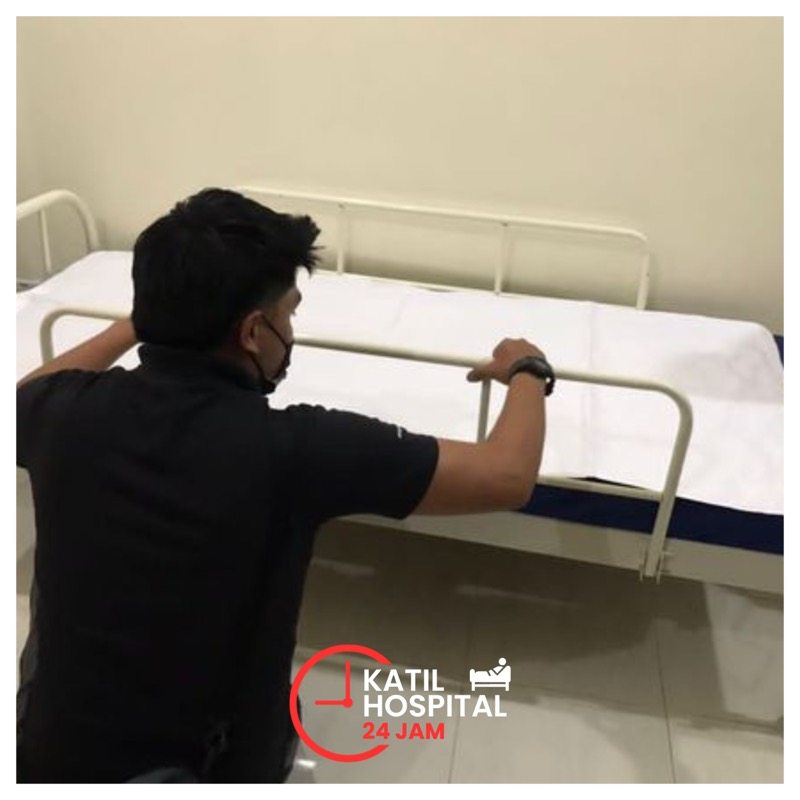
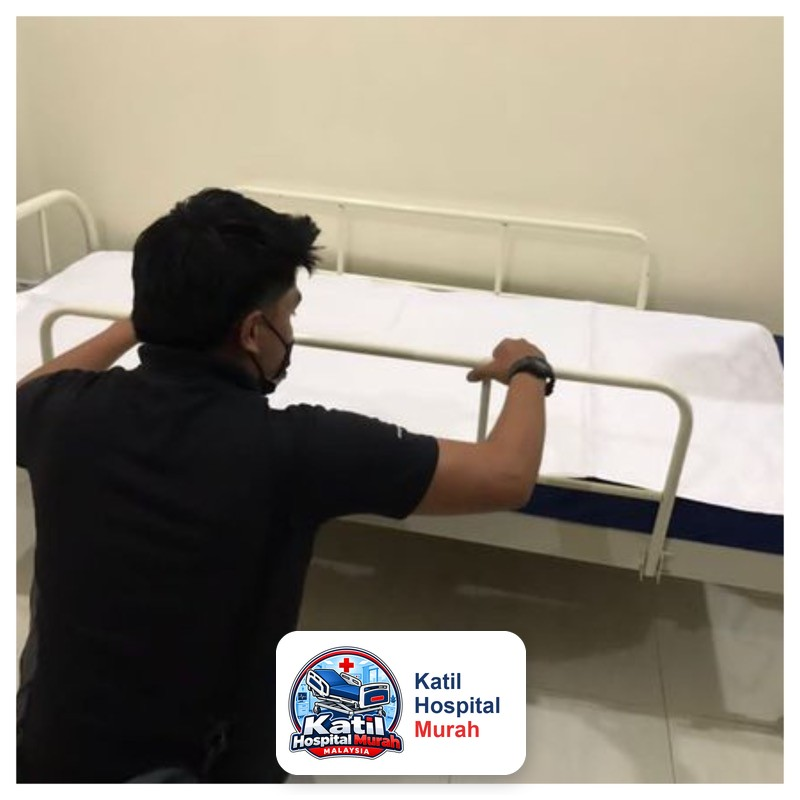
feat(katilhospital-24jam): WhatsApp-chat steps, flags, rebranded gallery, new final CTA photo
Review round 2 choices:

- Steps section (option 2): an example WhatsApp conversation in a phone
  frame beside the three steps, labelled "Contoh perbualan". The bed
  and price in the reply come from the live catalogue (Flexi II), and
  on a location page the customer's town is that page's town. Falls
  back to a price-free reply when no bed has a rental price.
- Language switcher shows round flags, copied from the canonical
  LanguageSwitcher (useId keeps clipPath ids unique across the header
  and drawer copies).
- Gallery photos: the old "Katil Hospital 24 Jam" watermark — this
  site's previous brand name — is covered by a white card with the new
  badge logo and name. Same spot on all 16 photos (photo 7 sits 29px
  left). JPG stays JPG; originals are in git history.
- Final CTA background: the client-generated dusk room (bed + wheelchair,
  open centre) replaces the stock hospital ward photo. PNG kept, resized
  to 1600px (1.3 MB). bgAlt updated in ms/en/zh.

Refs #207

Changed region(s): [[0.3438, 0.7812, 0.6562, 1.0]]

diff --git a/projects/katilhospital-24jam/app/globals.css b/projects/katilhospital-24jam/app/globals.css
@@ -1137,90 +1137,112 @@ h1, h2, h3, h4, h5, h6 {
   text-align: left;
 }
 
-/* ── Steps — connected sequence, closing CTA centred at every width ── */
+/* ── Steps — example WhatsApp chat beside the 3 steps ── */
+.kh-how {
+  display: grid;
+  gap: 28px;
+  max-width: 1080px;
+  margin: 0 auto;
+}
+@media (min-width: 900px) {
+  .kh-how { grid-template-columns: 360px minmax(0, 1fr); align-items: center; gap: 56px; }
+}
+.kh-chat { margin: 0; }
+.kh-chat-phone {
+  width: 100%;
+  max-width: 320px;
+  margin: 0 auto;
+  padding: 10px;
+  border-radius: 32px;
+  background: var(--ink);
+  box-shadow: 0 28px 60px rgba(14, 32, 64, 0.22), 0 8px 18px rgba(14, 32, 64, 0.1);
+}
+.kh-chat-screen { border-radius: 24px; overflow: hidden; background: #ECE5DD; }
+.kh-chat-bar {
+  display: flex;
+  align-items: center;
+  gap: 10px;
+  padding: 10px 12px;
+  background: #075E54;
+  color: #FFFFFF;
+}
+.kh-chat-bar img { width: 36px; height: 36px; border-radius: 50%; background: #FFFFFF; padding: 1px; }
+.kh-chat-bar b { display: block; font-size: 14px; line-height: 1.2; }
+.kh-chat-bar small { font-size: 11px; opacity: 0.8; }
+.kh-chat-msgs { display: grid; gap: 8px; padding: 14px 10px 18px; }
+.kh-chat-day {
+  justify-self: center;
+  padding: 3px 10px;
+  border-radius: 8px;
+  background: #E1F2FB;
+  color: #44606E;
+  font-size: 11px;
+}
+.kh-chat-b {
+  max-width: 84%;
+  padding: 8px 10px 6px;
+  border-radius: 10px;
+  font-size: 13px;
+  line-height: 1.4;
+  color: #111B21;
+  box-shadow: 0 1px 1px rgba(0, 0, 0, 0.08);
+}
+.kh-chat-b small { display: block; margin-top: 2px; text-align: right; font-size: 10px; color: #667781; }
+.kh-chat-in { justify-self: start; background: #FFFFFF; border-top-left-radius: 2px; }
+.kh-chat-out { justify-self: end; background: #DCF8C6; border-top-right-radius: 2px; }
+.kh-chat-cap { margin-top: 10px; text-align: center; font-size: 12px; color: var(--ink-muted); }
+
 .kh-steps {
   list-style: none;
-  max-width: 520px;
-  margin: 0 auto;
+  margin: 0;
   padding: 0;
   display: grid;
+  gap: 10px;
 }
 .kh-step {
-  position: relative;
   display: grid;
-  grid-template-columns: 44px minmax(0, 1fr);
-  /* The row is as tall as the longest step; without this a shorter step
-     spreads the spare height into its number row and its title drops. */
-  align-content: start;
+  grid-template-columns: 48px minmax(0, 1fr);
+  align-items: start;
   gap: 14px;
-  padding-bottom: 24px;
+  padding: 14px;
+  background: #FFFFFF;
+  border: 1px solid var(--line);
+  border-radius: 16px;
   text-align: left;
 }
-.kh-step:not(:last-child)::before {
-  content: "";
-  position: absolute;
-  left: 21px;
-  top: 50px;
-  bottom: 4px;
-  width: 2px;
-  background: repeating-linear-gradient(180deg, var(--accent) 0 6px, transparent 6px 11px);
-}
 .kh-step-num {
-  width: 44px;
-  height: 44px;
-  border-radius: 50%;
+  width: 48px;
+  height: 48px;
+  border-radius: 14px;
   background: var(--navy);
   color: #FFFFFF;
   display: grid;
   place-items: center;
   font-family: var(--font-display);
-  font-size: 18px;
+  font-size: 20px;
   font-weight: 800;
 }
+.kh-step--wa .kh-step-num { background: #25D366; }
 .kh-step-title {
-  margin: 10px 0 4px;
+  margin: 3px 0 3px;
   font-family: var(--font-display);
-  font-size: 17px;
+  font-size: 16.5px;
   font-weight: 700;
   line-height: 1.25;
   color: var(--ink);
 }
-.kh-step-body {
-  font-size: 14px;
-  line-height: 1.55;
-  color: var(--ink-muted);
-}
+.kh-step-body { font-size: 14px; line-height: 1.5; color: var(--ink-muted); }
 .kh-steps-close {
-  max-width: 560px;
-  margin: 8px auto 0;
-  padding: 20px;
-  background: #FFFFFF;
-  border: 1px solid var(--line);
-  border-radius: 18px;
+  margin-top: 18px;
   display: grid;
   justify-items: center;
-  gap: 14px;
+  gap: 12px;
   text-align: center;
 }
-.kh-steps-close p {
-  font-size: 15px;
-  line-height: 1.5;
-  color: var(--ink);
-}
+.kh-steps-close p { font-size: 15px; line-height: 1.5; color: var(--ink); max-width: 44ch; }
 @media (min-width: 900px) {
-  .kh-steps { max-width: 1080px; grid-template-columns: repeat(3, minmax(0, 1fr)); gap: 28px; }
-  .kh-step { grid-template-columns: minmax(0, 1fr); padding-bottom: 0; }
-  .kh-step:not(:last-child)::before {
-    left: 58px;
-    right: -18px;
-    top: 21px;
-    bottom: auto;
-    width: auto;
-    height: 2px;
-    background: repeating-linear-gradient(90deg, var(--accent) 0 6px, transparent 6px 11px);
-  }
-  .kh-step-title { margin: 16px 0 6px; font-size: 18px; }
-  .kh-steps-close { max-width: 720px; margin-top: 44px; padding: 24px 28px; }
+  .kh-step { padding: 18px; }
+  .kh-steps-close { justify-items: start; text-align: left; }
   .kh-steps-close p { font-size: 16px; }
 }
 
@@ -1455,7 +1477,7 @@ h1, h2, h3, h4, h5, h6 {
   color: #FFFFFF;
   background:
     linear-gradient(150deg, rgba(14, 32, 64, 0.95) 0%, rgba(28, 58, 106, 0.88) 55%, rgba(28, 58, 106, 0.74) 100%),
-    url('/brand/gallery/cta-bg.jpg') center / cover;
+    url('/brand/gallery/final-cta-home.png') center / cover;
 }
 .kh-final h3 {
   max-width: 680px;

diff --git a/projects/katilhospital-24jam/components/HomeSections.tsx b/projects/katilhospital-24jam/components/HomeSections.tsx
@@ -341,6 +341,13 @@ export default function HomeSections({ locale, products, location }: Props) {
 
   const [open, setOpen] = useState<number | null>(0);
 
+  // Example chat in the steps section: a real bed from the catalogue (Flexi II
+  // when present) and, on a location page, that page's town.
+  const chatBed =
+    renderProducts.find((p) => p.slug === 'katil-hospital-elektrik-3-fungsi') ??
+    renderProducts.find((p) => p.slug.startsWith('katil-hospital') && p.rental_price);
+  const chatCity = location?.city ?? 'Shah Alam';
+
   // Stagger index for grid children; capped so a long grid doesn't make the
   // last card wait visibly.
   const stagger = (i: number) => ({ '--i': Math.min(i, 6) }) as React.CSSProperties;
@@ -419,28 +426,67 @@ export default function HomeSections({ locale, products, location }: Props) {
         </section>
       )}
 
-      {/* SECTION 7 — How it works (3 steps, closing WhatsApp CTA) */}
+      {/* SECTION 7 — How it works: example WhatsApp chat beside the 3 steps,
+          closing with the WhatsApp CTA. The chat is illustrative and labelled
+          as an example; its product and price come from the live catalogue. */}
       <section id="how" className="kh-section kh-section--mist">
         <div className="kh-wrap">
           <SectionHead eyebrow={howT('eyebrow')} title={howT('h3')} sub={howT('intro')} />
-          <ol className="kh-steps">
-            {['s1', 's2', 's3'].map((s, i) => (
-              <li key={s} className="kh-step kh-reveal" style={stagger(i)}>
-                <span className="kh-step-num" aria-hidden="true">
-                  {i + 1}
-                </span>
-                <div>
-                  {/* Strip any leading "1." / "1、" prefix — the number circle
-                      is the single source of the step number. */}
-                  <h4 className="kh-step-title">{howT(`${s}.title`).replace(/^\s*\d+\s*[.、:)-]\s*/, '')}</h4>
-                  <p className="kh-step-body">{howT(`${s}.body`)}</p>
+          <div className="kh-how">
+            <figure className="kh-chat kh-reveal">
+              <div className="kh-chat-phone" aria-hidden="true">
+                <div className="kh-chat-screen">
+                  <div className="kh-chat-bar">
+                    {/* eslint-disable-next-line @next/next/no-img-element */}
+                    <img src="/brand/logo/logo-badge.png" alt="Katil Hospital Murah" width={36} height={36} />
+                    <div>
+                      <b>Katil Hospital Murah</b>
+                      <small>{howT('chat.status')}</small>
+                    </div>
+                  </div>
+                  <div className="kh-chat-msgs">
+                    <span className="kh-chat-day">{howT('chat.today')}</span>
+                    <p className="kh-chat-b kh-chat-out">
+                      {howT('chat.m1', { city: chatCity })}
+                      <small>9:12</small>
+                    </p>
+                    <p className="kh-chat-b kh-chat-in">
+                      {chatBed?.rental_price
+                        ? howT('chat.m2', { product: chatBed.name, price: chatBed.rental_price })
+                        : howT('chat.m2NoPrice')}
+                      <small>9:14</small>
+                    </p>
+                    <p className="kh-chat-b kh-chat-out">
+                      {howT('chat.m3')}
+                      <small>9:15</small>
+                    </p>
+                  </div>
                 </div>
-              </li>
-            ))}
-          </ol>
-          <div className="kh-steps-close kh-reveal">
-            <p>{howT('closing')}</p>
-            <WhatsAppButton href={waHref} label={howT('cta')} variant="pill" locationSlug={location?.slug} />
+              </div>
+              <figcaption className="kh-chat-cap">{howT('chat.caption')}</figcaption>
+            </figure>
+
+            <div className="kh-how-steps">
+              <ol className="kh-steps">
+                {['s1', 's2', 's3'].map((s, i) => (
+                  <li key={s} className={`kh-step kh-reveal${i === 0 ? ' kh-step--wa' : ''}`} style={stagger(i)}>
+                    <span className="kh-step-num" aria-hidden="true">
+                      {i + 1}
+                    </span>
+                    <div>
+                      {/* Strip any leading "1." / "1、" prefix — the number tile
+                          is the single source of the step number. */}
+                      <h4 className="kh-step-title">{howT(`${s}.title`).replace(/^\s*\d+\s*[.、:)-]\s*/, '')}</h4>
+                      <p className="kh-step-body">{howT(`${s}.body`)}</p>
+                    </div>
+                  </li>
+                ))}
+              </ol>
+              <div className="kh-steps-close kh-reveal">
+                <p>{howT('closing')}</p>
+                <WhatsAppButton href={waHref} label={howT('cta')} variant="pill" locationSlug={location?.slug} />
+              </div>
+            </div>
           </div>
         </div>
       </section>

diff --git a/projects/katilhospital-24jam/components/LanguageSwitcher.tsx b/projects/katilhospital-24jam/components/LanguageSwitcher.tsx
@@ -1,10 +1,79 @@
 'use client';
 
+import { useId } from 'react';
 import { useLocale } from 'next-intl';
 import { usePathname, useRouter } from 'next/navigation';
 import { locales } from '@/i18n/routing';
 
 const labels: Record<string, string> = { ms: 'MS', en: 'EN', zh: 'ZH' };
+
+function starPoints(cx: number, cy: number, outer: number, rot = -Math.PI / 2): string {
+  const inner = outer * 0.382;
+  const pts: string[] = [];
+  for (let i = 0; i < 10; i++) {
+    const angle = rot + (Math.PI / 5) * i;
+    const r = i % 2 === 0 ? outer : inner;
+    pts.push(`${(cx + r * Math.cos(angle)).toFixed(2)},${(cy + r * Math.sin(angle)).toFixed(2)}`);
+  }
+  return pts.join(' ');
+}
+
+// Round flag — copied from templates/site-chrome/LanguageSwitcher.tsx. useId()
+// keeps each clipPath id unique: the switcher renders twice (header + mobile
+// drawer), and a shared id would clip one copy with the other's path.
+function CircleFlag({ locale }: { locale: string }) {
+  const uid = useId().replace(/:/g, '');
+  const id = `clip-${locale}-${uid}`;
+  return (
+    <svg viewBox="0 0 24 24" width="18" height="18" aria-hidden="true" className="lsw-flag">
+      <defs>
+        <clipPath id={id}>
+          <circle cx="12" cy="12" r="11.5" />
+        </clipPath>
+      </defs>
+      <g clipPath={`url(#${id})`}>
+        {locale === 'ms' && (
+          <>
+            <rect width="24" height="24" fill="#fff" />
+            {[0, 2, 4, 6, 8, 10, 12, 14, 16, 18, 20, 22].map((y, i) => (
+              <rect key={y} y={y - 4} width="24" height="2" fill={i % 2 === 0 ? '#CC0001' : '#FFFFFF'} />
+            ))}
+            <rect width="13" height="13" fill="#010066" />
+            <circle cx="5.5" cy="6.5" r="3" fill="#FFCC00" />
+            <circle cx="6.6" cy="6" r="2.6" fill="#010066" />
+            <polygon points={starPoints(9.5, 6.5, 1.8)} fill="#FFCC00" />
+          </>
+        )}
+        {locale === 'en' && (
+          <>
+            <rect width="24" height="24" fill="#012169" />
+            <path d="M0,0 L24,24 M24,0 L0,24" stroke="#FFFFFF" strokeWidth="5" />
+            <path d="M0,0 L24,24" stroke="#C8102E" strokeWidth="2" />
+            <path d="M24,0 L0,24" stroke="#C8102E" strokeWidth="2" />
+            <path d="M12,0 V24 M0,12 H24" stroke="#FFFFFF" strokeWidth="7" />
+            <path d="M12,0 V24 M0,12 H24" stroke="#C8102E" strokeWidth="4" />
+          </>
+        )}
+        {locale === 'zh' && (
+          <>
+            <rect width="24" height="24" fill="#EE1C25" />
+            <polygon points={starPoints(7, 7, 3.2)} fill="#FFFF00" />
+            {[
+              { x: 12, y: 3 },
+              { x: 14, y: 5.5 },
+              { x: 14, y: 9 },
+              { x: 12, y: 11 },
+            ].map((s, i) => {
+              const angle = Math.atan2(7 - s.y, 7 - s.x);
+              return <polygon key={i} points={starPoints(s.x, s.y, 1.2, angle)} fill="#FFFF00" />;
+            })}
+          </>
+        )}
+      </g>
+      <circle cx="12" cy="12" r="11.5" fill="none" stroke="rgba(15,15,15,0.18)" strokeWidth="1" />
+    </svg>
+  );
+}
 
 interface Props {
   variant?: 'on-light' | 'on-dark';
@@ -48,7 +117,10 @@ export function LanguageSwitcher({ variant = 'on-light' }: Props) {
             aria-selected={active}
             onClick={() => switchTo(l)}
             style={{
-              padding: '6px 10px',
+              display: 'inline-flex',
+              alignItems: 'center',
+              gap: 6,
+              padding: '5px 10px 5px 5px',
               borderRadius: 999,
               border: active ? activeBorder : inactiveBorder,
               background: active ? activeBg : 'transparent',
@@ -56,9 +128,11 @@ export function LanguageSwitcher({ variant = 'on-light' }: Props) {
               fontFamily: 'Inter, sans-serif',
               fontSize: 13,
               fontWeight: 600,
+              lineHeight: 1,
               cursor: 'pointer',
             }}
           >
+            <CircleFlag locale={l} />
             {labels[l]}
           </button>
         );
